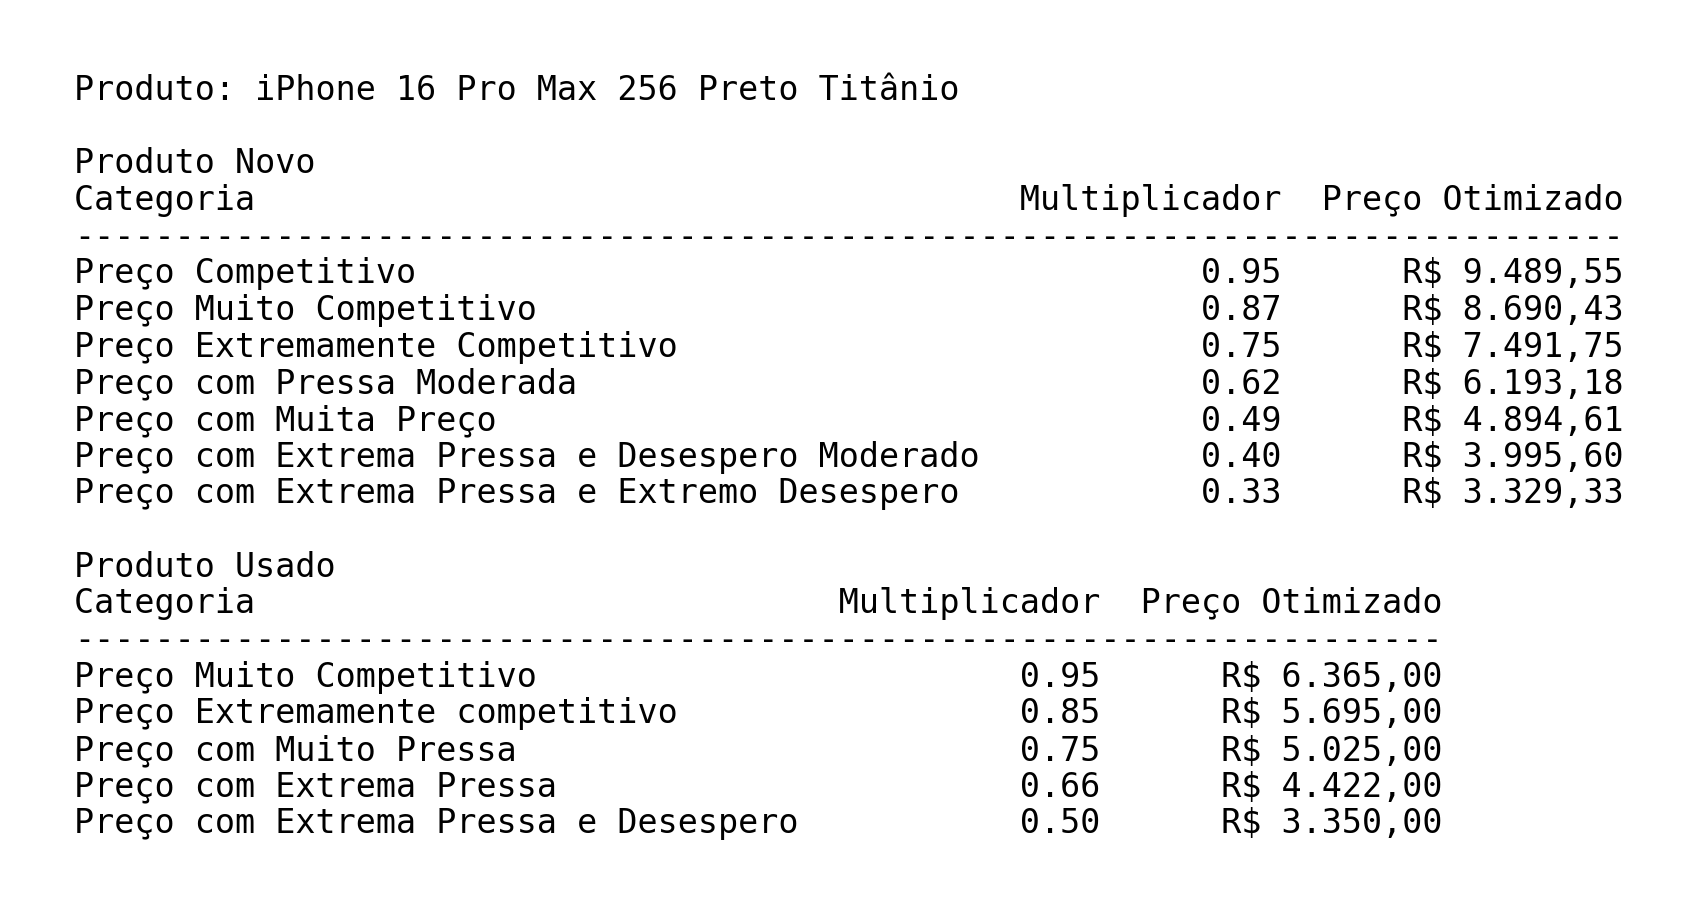
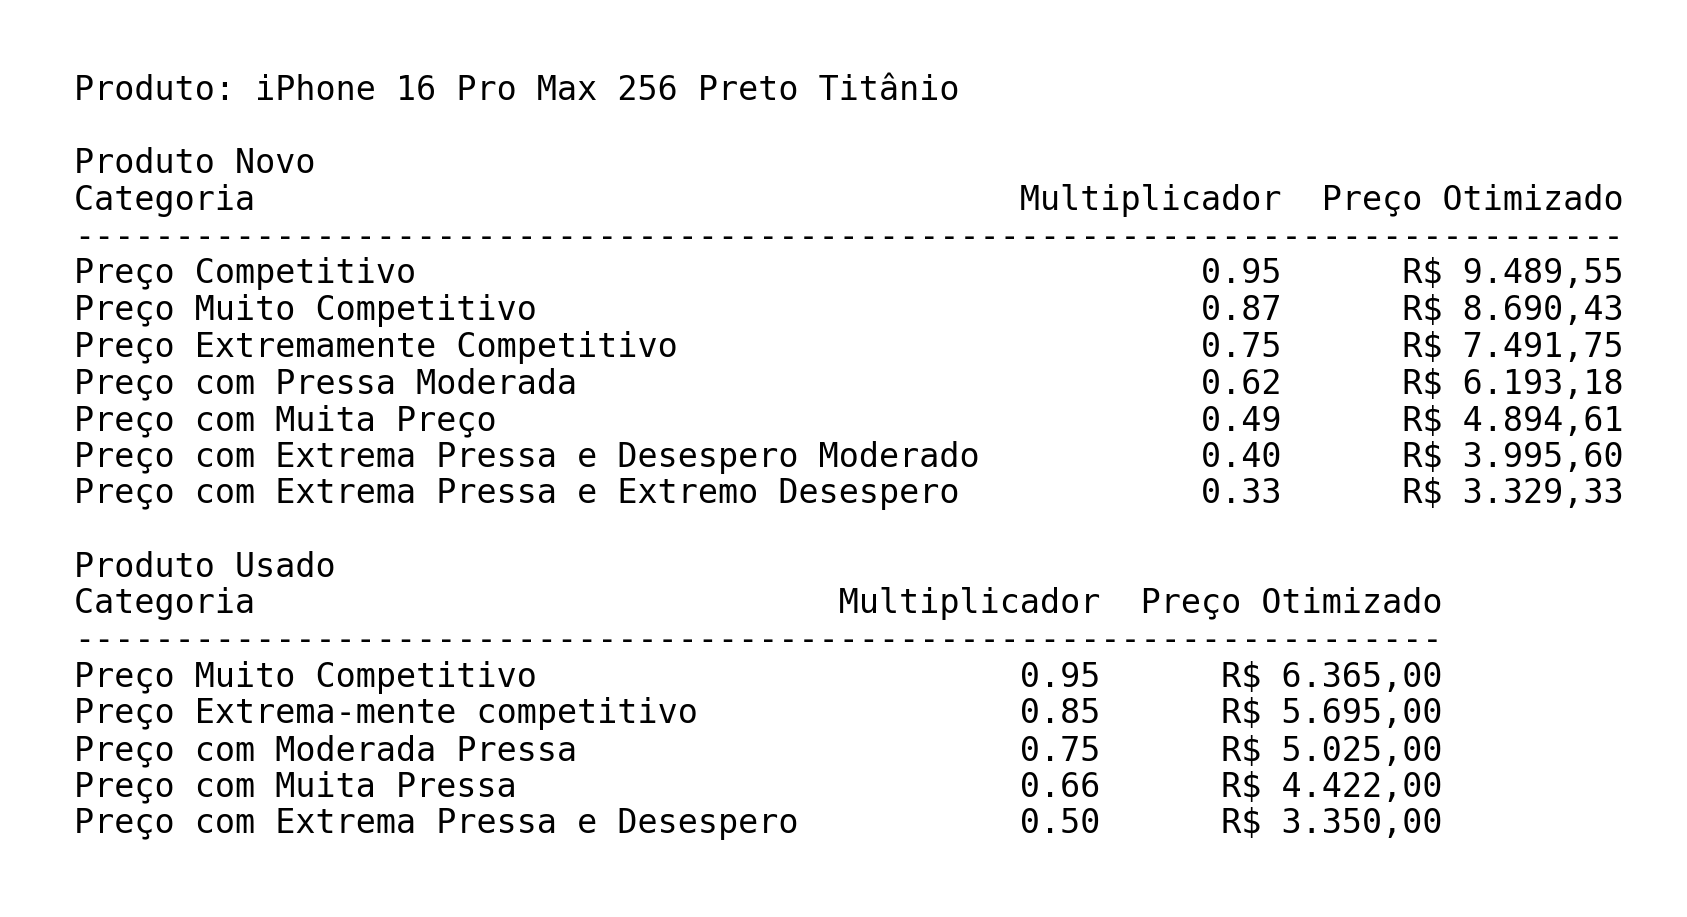
refactor: streamline pricing configuration and computation logic in MercadoLivrePriceOptimizer

Changed region(s): [[0.1541, 0.7634, 0.4315, 0.8855]]

diff --git a/src/MercadoLivrePriceOptimizer.py b/src/MercadoLivrePriceOptimizer.py
@@ -1,6 +1,5 @@
 import sys
 from pathlib import Path
-import re
 import matplotlib.pyplot as plt
 
 
@@ -33,48 +32,44 @@ def _fmt_money(v: float) -> str:
     return f"R$ {'-' if v < 0 else ''}{s_inteiro},{s_frac}"
 
 
-def _clean_categoria(label: str) -> str:
-    s = label.strip()
-    s = re.sub(r"\s*0[,.]\d+x$", "", s)
-    s = re.sub(r"^[A-Za-z]\s*-\s*", "", s)
-    return s
+def _config() -> dict:
+    return {
+        "novo": [
+            {"label": "Preço Competitivo", "mult": 0.95},
+            {"label": "Preço Muito Competitivo", "mult": 0.87},
+            {"label": "Preço Extremamente Competitivo", "mult": 0.75},
+            {"label": "Preço com Pressa Moderada", "mult": 0.62},
+            {"label": "Preço com Muita Preço", "mult": 0.49},
+            {"label": "Preço com Extrema Pressa e Desespero Moderado", "mult": 0.40},
+            {"label": "Preço com Extrema Pressa e Extremo Desespero", "mult": 0.3333},
+        ],
+        "usado": [
+            {"label": "Preço Muito Competitivo", "mult": 0.95},
+            {"label": "Preço Extremamente competitivo", "mult": 0.85},
+            {"label": "Preço com Moderada Pressa", "mult": 0.75},
+            {"label": "Preço com Muita Pressa", "mult": 0.66},
+            {"label": "Preço com Extrema Pressa e Desespero", "mult": 0.50},
+        ],
+    }
 
 
 def compute_rows(preco_novo: float, preco_usado: float):
-    novo_rules = [
-        ("1.A", "Produto (1) Novo", "A - Preço Competitivo 0,95x", 0.95),
-        ("1.B", "Produto (1) Novo", "B - Preço Muito Competitivo 0,87x", 0.87),
-        ("1.C", "Produto (1) Novo", "C - Preço Extremamente Competitivo 0,75x", 0.75),
-        ("1.D", "Produto (1) Novo", "D - Preço com Pressa Moderada 0,62x", 0.62),
-        ("1.E", "Produto (1) Novo", "E - Preço com Muita Pressa 0,49x", 0.49),
-        ("1.F", "Produto (1) Novo", "F - Preço com Extrema Pressa e Desespero Moderado 0,4x", 0.40),
-        ("1.G", "Produto (1) Novo", "G - Preço com Extrema Pressa e Extremo Desespero 0,3333x", 0.3333),
-    ]
-    usado_rules = [
-        ("2.A", "Produto (2) Usado", "A - Preço Muito Competitivo 0,95x", 0.95),
-        ("2.B", "Produto (2) Usado", "B - Preço Extremamente competitivo 0,85x", 0.85),
-        ("2.C", "Produto (2) Usado", "C - Preço com Moderada Pressa 0,75x", 0.75),
-        ("2.D", "Produto (2) Usado", "D - Preço com Muita Pressa 0,66x", 0.66),
-        ("2.E", "Produto (2) Usado", "E - Preço com Extrema Pressa e Desespero 0,50x", 0.50),
-    ]
+    cfg = _config()
     rows = []
-    for chave, tipo, categoria, mult in novo_rules:
+    for item in cfg["novo"]:
         rows.append({
-            "Chave": chave,
-            "Tipo": tipo,
-            "Categoria": _clean_categoria(categoria),
-            "Multiplicador": mult,
-            "Preço Otimizado": round(preco_novo * mult, 2),
+            "Tipo": "Produto Novo",
+            "Categoria": item["label"],
+            "Multiplicador": item["mult"],
+            "Preço Otimizado": round(preco_novo * item["mult"], 2),
         })
-    for chave, tipo, categoria, mult in usado_rules:
+    for item in cfg["usado"]:
         rows.append({
-            "Chave": chave,
-            "Tipo": tipo,
-            "Categoria": _clean_categoria(categoria),
-            "Multiplicador": mult,
-            "Preço Otimizado": round(preco_usado * mult, 2),
+            "Tipo": "Produto Usado",
+            "Categoria": item["label"],
+            "Multiplicador": item["mult"],
+            "Preço Otimizado": round(preco_usado * item["mult"], 2),
         })
-    rows.sort(key=lambda r: r["Chave"])
     return rows
 
 
@@ -93,25 +88,22 @@ def _format_block(grupo_rows, titulo_visivel: str):
 
 def print_table(rows, produto: str):
     print(f"Produto: {produto}\n")
-    titulo_map = {"Produto (1) Novo": "Produto Novo", "Produto (2) Usado": "Produto Usado"}
-    for tipo in ["Produto (1) Novo", "Produto (2) Usado"]:
+    for tipo in ["Produto Novo", "Produto Usado"]:
         grupo = [r for r in rows if r["Tipo"] == tipo]
         if not grupo:
             continue
-        for line in _format_block(grupo, titulo_map[tipo]):
+        for line in _format_block(grupo, tipo):
             print(line)
         print()
 
 
 def save_png_table(rows, produto: str, output_path: Path = Path("precos_otimizados.png")) -> Path:
-    titulo_map = {"Produto (1) Novo": "Produto Novo", "Produto (2) Usado": "Produto Usado"}
     all_lines = [f"Produto: {produto}", ""]
-    for i, tipo in enumerate(["Produto (1) Novo", "Produto (2) Usado"]):
+    for i, tipo in enumerate(["Produto Novo", "Produto Usado"]):
         grupo = [r for r in rows if r["Tipo"] == tipo]
         if not grupo:
             continue
-        block = _format_block(grupo, titulo_map[tipo])
-        all_lines.extend(block)
+        all_lines.extend(_format_block(grupo, tipo))
         if i == 0:
             all_lines.append("")
     fontsize = 12
